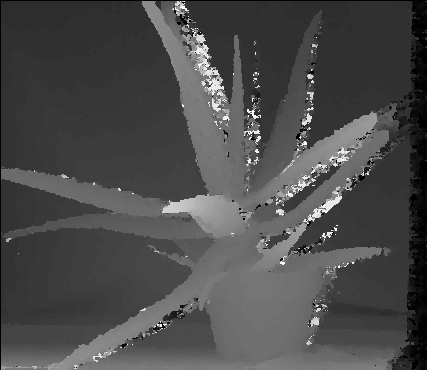
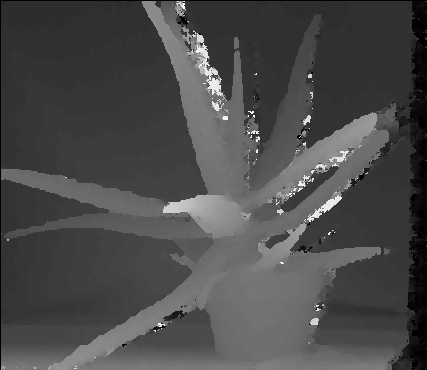
[3d lab1] fix aggregation

diff --git a/3ddp/lab1/SGM/sgm.cpp b/3ddp/lab1/SGM/sgm.cpp
@@ -215,13 +215,14 @@ void SGM::aggregation() {
             }
         }
     }
-    // TO DO: aggregate the costs for all direction into the aggr_cost_ tensor
+    // aggregate the costs for all direction into the aggr_cost_ tensor
     for (int y = 0; y < height_; ++y) {
         for (int x = 0; x < width_; ++x) {
             for (int d = 0; d < disparity_range_; ++d) {
-                aggr_cost_[y][x][d] = 0;
+                aggr_cost_[y][x][d] = cost_[y][x][d];  // data term
                 for (int path = 0; path < PATHS_PER_SCAN; ++path) {
-                    aggr_cost_[y][x][d] += path_cost_[path][y][x][d];
+                    aggr_cost_[y][x][d] += path_cost_[path][y][x][d] -
+                                           cost_[y][x][d];  // smoothness term
                 }
             }
         }
